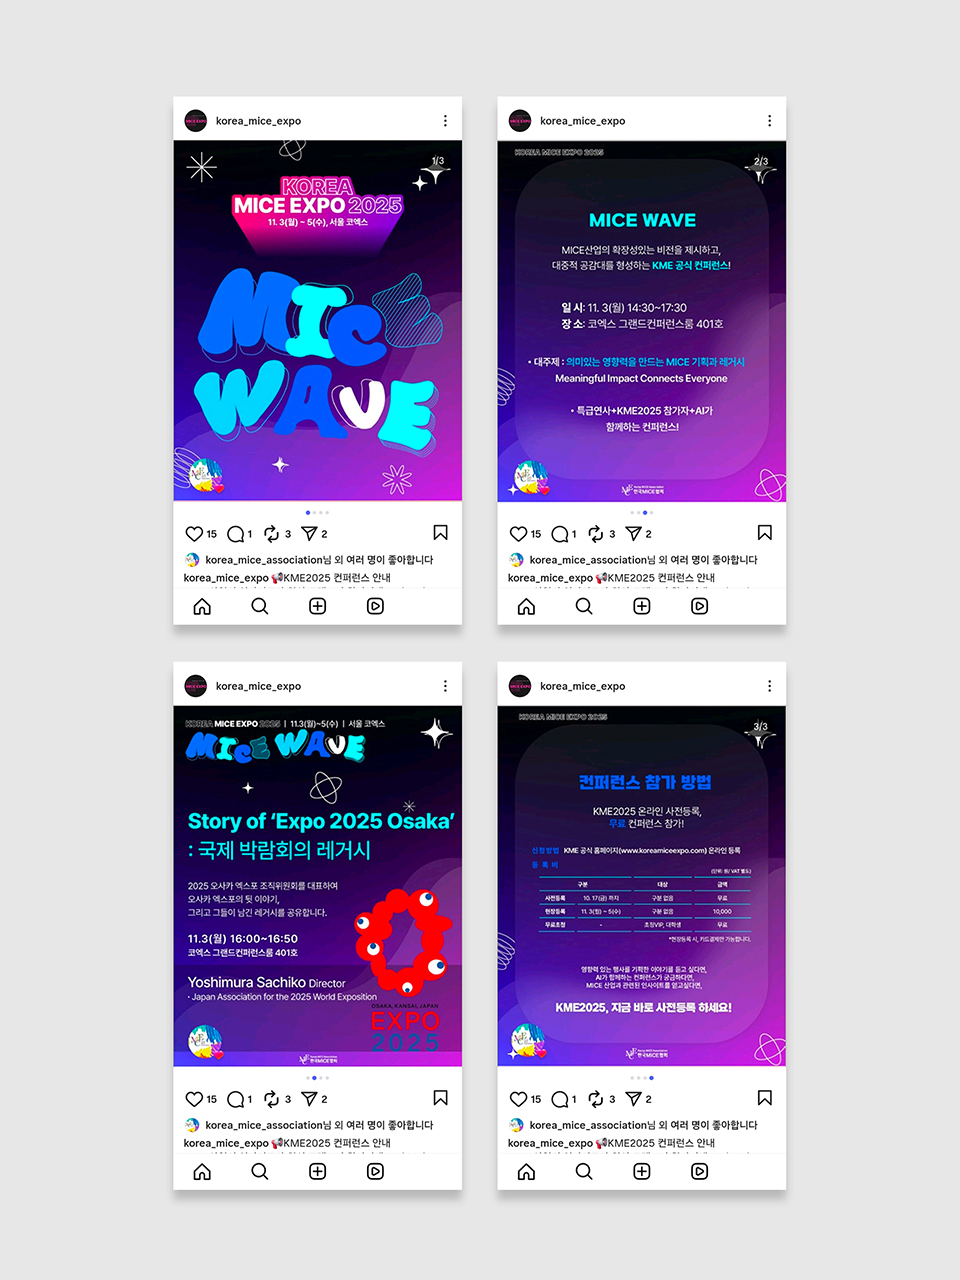
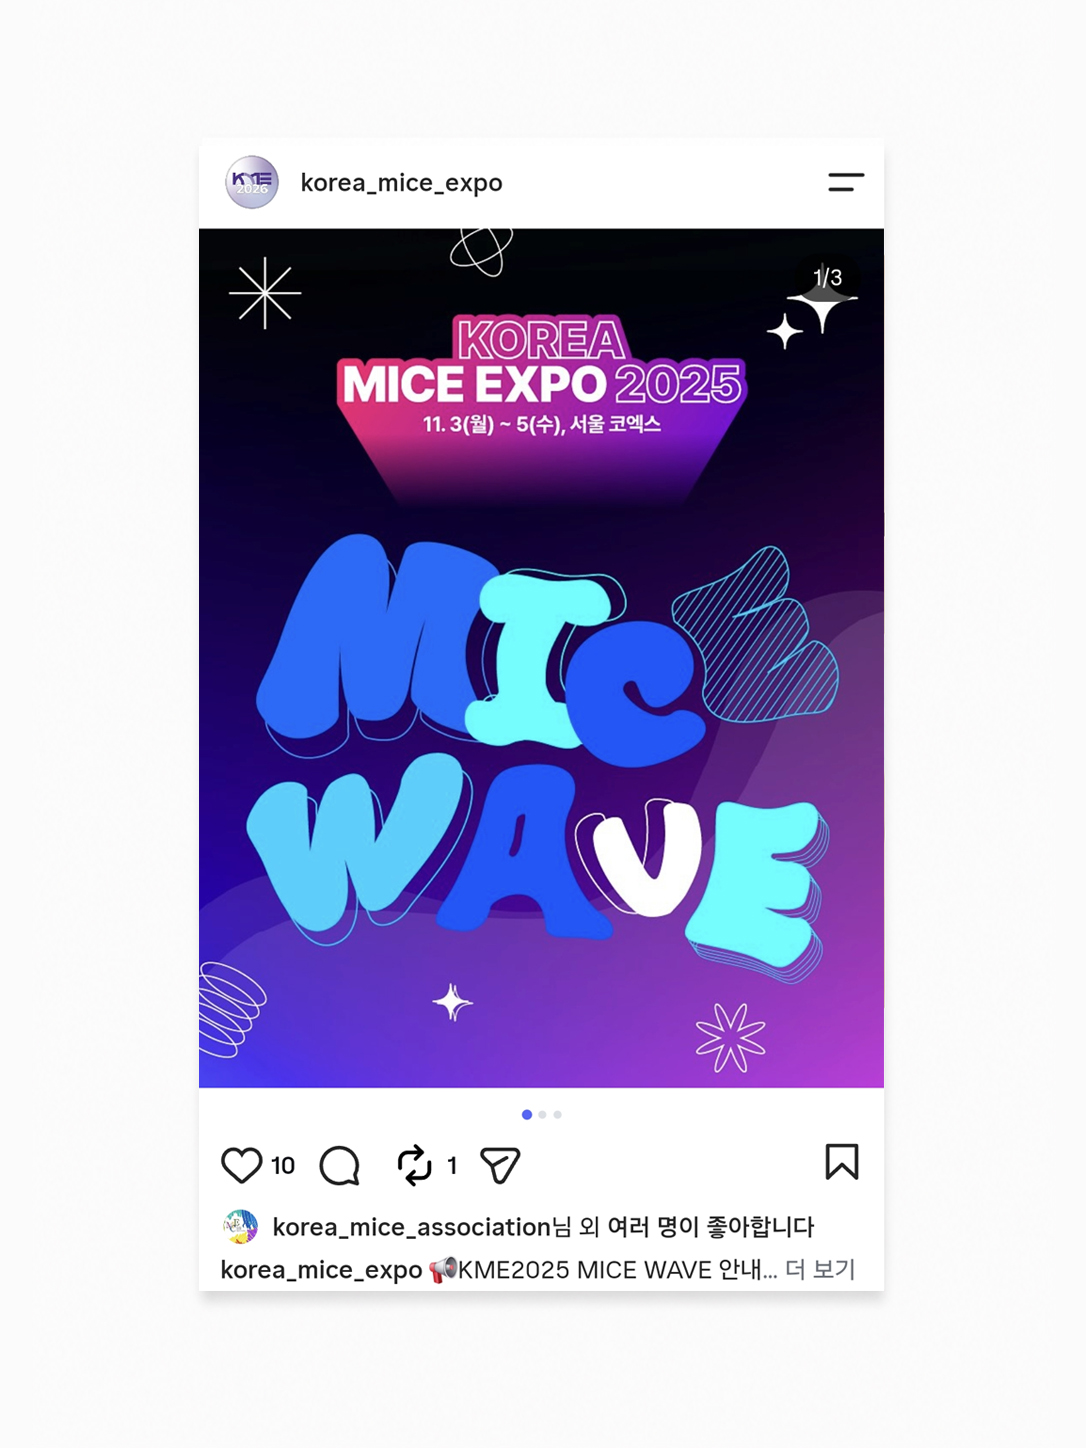
Update Web Design 1 cover image and add history back functionality for modal

diff --git a/index.html b/index.html
@@ -223,7 +223,7 @@
           <!-- Work 3 -->
           <div class="work-item">
             <a href="#" class="gallery-trigger" data-gallery="images/kme_conference.jpg, images/kme_mice_wave.jpg, images/kme_open_session.jpg">
-              <img src="images/kme_mice_wave_c.jpg" alt="KME 행사 디자인" onerror="this.src='https://placehold.co/600x800/cccccc/333333?text=Work+3'" />
+              <img src="images/kme_mice_wave_c.jpg?v=20260901" alt="KME 행사 디자인" onerror="this.src='https://placehold.co/600x800/cccccc/333333?text=Work+3'" />
             </a>
             <div class="work-info">
               <h3>KME 행사 내 세션 비주얼 디자인</h3>
@@ -412,11 +412,28 @@
     const galleryWrapper = document.getElementById("galleryWrapper");
     const closeBtn = document.querySelector(".close-modal");
     
+    function openModalUI() {
+      modal.style.display = "flex";
+      history.pushState({ modalOpen: true }, "", "#modal");
+    }
+
+    function closeModalUI() {
+      modal.style.display = "none";
+      const iframe = document.getElementById("modalIframe");
+      if(iframe) iframe.src = "";
+    }
+
+    window.addEventListener("popstate", () => {
+      if (location.hash !== "#modal") {
+        closeModalUI();
+      }
+    });
+
     // 단일 이미지 (기존 zoomable)
     document.querySelectorAll(".zoomable").forEach(img => {
       img.addEventListener('click', function(e) {
         e.preventDefault();
-        modal.style.display = "flex";
+        openModalUI();
         
         galleryWrapper.style.display = "none";
         const modalBtnContainer = document.getElementById("modalBtnContainer");
@@ -445,7 +462,7 @@
     document.querySelectorAll(".gallery-trigger").forEach(trigger => {
       trigger.addEventListener('click', function(e) {
         e.preventDefault();
-        modal.style.display = "flex";
+        openModalUI();
         modalImg.style.display = "none";
         document.getElementById("modalIframe").style.display = "none";
         galleryWrapper.style.display = "flex";
@@ -480,7 +497,7 @@
     document.querySelectorAll(".iframe-trigger").forEach(trigger => {
       trigger.addEventListener('click', function(e) {
         e.preventDefault();
-        modal.style.display = "flex";
+        openModalUI();
         modalImg.style.display = "none";
         
         galleryWrapper.style.display = "none";
@@ -496,16 +513,20 @@
     });
 
     closeBtn.addEventListener('click', () => {
-      modal.style.display = "none";
-      const iframe = document.getElementById("modalIframe");
-      if(iframe) iframe.src = "";
+      if (location.hash === "#modal") {
+        history.back();
+      } else {
+        closeModalUI();
+      }
     });
 
     modal.addEventListener('click', (e) => {
       if(e.target === modal || e.target.id === 'modalContentWrapper') {
-        modal.style.display = "none";
-        const iframe = document.getElementById("modalIframe");
-        if(iframe) iframe.src = "";
+        if (location.hash === "#modal") {
+          history.back();
+        } else {
+          closeModalUI();
+        }
       }
     });
   </script>
